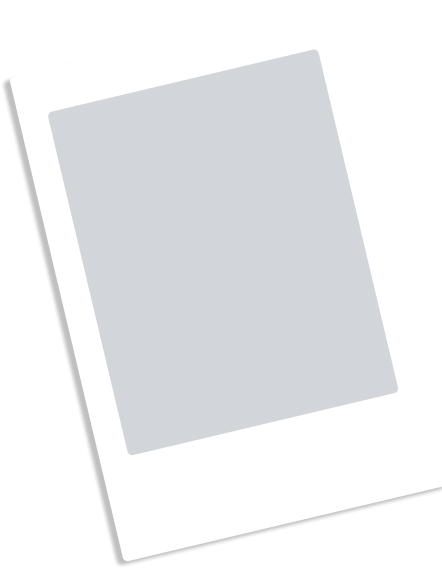
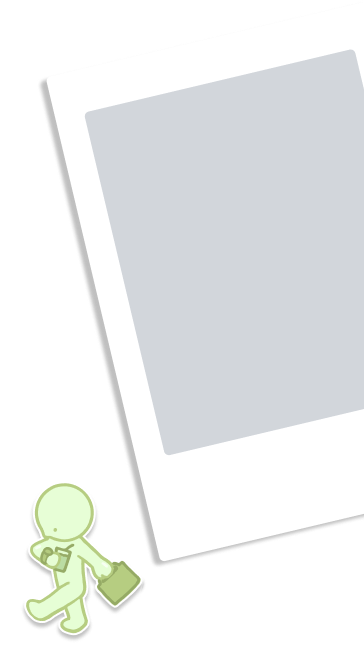
abt page

diff --git a/frontend/style.css b/frontend/style.css
@@ -261,10 +261,7 @@
     position: relative;
     overflow: visible;
     
-    background-image: url("images/about-us-background.png");
-    background-size: cover;
-    background-position: center;
-    background-repeat: no-repeat;
+    background-color: #B19587;
 }
 
 .about-us-text,
@@ -278,19 +275,21 @@
 .about-us-text h2{
     font-family: "gaegu", sans-serif;
     font-size: 64px;
+    color: white;
 }
 
 .about-us-text p{
     text-align: center;
-    padding: 5rem;
-    max-width: 40%;
+    padding: 8rem;
+    width: 70%;
     font-size: 24px;
+    color: #202020;
 
     font-family: "Besley", serif;
-    background-image: url("images/dotted-paper.png");
-    background-size: cover;
+    background-image: url("images/about-us-lined-background.png");
     background-repeat: no-repeat;
-    background-position: center;
+    background-position: top center;
+    background-size: contain;
 }
 
 .about-us-text img{
@@ -311,12 +310,13 @@
 .right-polaroid{
     position: absolute;
     right: 0px;
-    transform: translateY(-30%);
+    transform: translateY() translateX(25%);
 }
 
 /*OUR GOAL SECTION*/
 .our-goal {
     display: flex;
+    flex-direction: column;
     align-items: center;
     position: relative;
     padding: 2rem;
@@ -327,43 +327,33 @@
     background-repeat: no-repeat;
 }
 
-.our-goal-text img{
-    margin: 2rem;
+.our-goal-content {
+    display: flex;
+    align-items: center;
+    gap: 4rem;
+}
+
+.our-goal-text {
+    background-image: url("images/our-goal-lined-background.png");
+    background-size: contain;
+    background-size: 100% 75%;
+    background-position: center;
+    background-repeat: no-repeat;
+    padding: 8rem;
+    flex: 1;
 }
 
 .our-goal-text p{
+    font-size: 24px;
     font-family: "Besley", serif;
-    font-size: 24px;
+    color: #202020;
 }
 
-.our-goal-p{
-    background-image: url("images/brown-paper.png");
-    background-size: cover;
-    background-repeat: no-repeat;
-    background-position: center;
-
-    font-size: 24px;
-    color: #ffffff;
-    padding: 4rem;
-    max-width: 60%;
-}
-
-.left-petals{
-    position: absolute;
-    left: 2rem;
-    transform: translateY(-30%);
-}
-
-.matcha-sticker{
-    position: absolute;
-    right: 1rem;
-    transform: translateY(-70%)
-}
-
-.right-petals{
-    position: absolute;
-    right: 1rem;
-    transform: translateY(100%);
+.our-goal-img-wrapper{
+    flex: 1;
+    display: flex;
+    justify-content: center;
+    align-items: center;
 }
 
 /* SECOND ABOUT US SECTION */

diff --git a/frontend/about.html b/frontend/about.html
@@ -14,7 +14,7 @@
         <div class="merch-nav">
             <a onclick="openShadowBox()">
                 <div class="merch-img">
-                    <img src="images/merch-seal.png"/>
+                    <img src="images/merch-btn-3.png"/>
                     <p>Merch</p>
                 </div>
             </a>
@@ -91,25 +91,21 @@
         <div class="about-us-text">
             <h2>About Us</h2>
             <p>We're recent college graduates who fell in love with matcha long before we fell into adulthood. Between classes, late nights, and caffeine-fueled study sessions, we tried matcha everywhere—cafés, pop-ups, specialty shops, you name it. And somewhere along the way, we started asking the same question over and over: </p>
-            <img src="images/about-us-quote.png" alt="Why are we paying $9 for a cup of matcha that’s barely bigger than our hand?"/>
         </div>
         <div class="right-polaroid">
             <img src="images/right-polaroid-frame.png" alt="polaroid frame"/>
         </div>
     </div>
     <div class="our-goal">
-        <div class="left-petals">
-            <img src="images/petals.png"/>
-        </div>
-        <div class="our-goal-text">
-            <p>The economy is expensive enough. Good matcha shouldn't be.<br>So we decided to do something about it</p>
-            <img src="images/our-goal-img.png"/>
-            <p class="our-goal-p">We don't cut corners. We use the same amount of matcha (if not more), source high-quality powder, and focus on balance, flavor, and care in every cup. No watered-down drinks. No shortcuts. No “premium” upcharges for things that should already be standard.</p>
-        </div>
-        <div>
-            <img class="matcha-sticker" src="images/matcha-latte-sticker.png"/>
-            <img class="right-petals" src="images/petals2.png"/>
-        </div>
+       <img src="images/about-us-quote.png" alt="Why are we paying $9 for a cup of matcha that’s barely bigger than our hand?"/>
+       <div class="our-goal-content">
+            <div class="our-goal-text">
+                <p>The economy is expensive enough. <br> Good matcha shouldn’t be. <br> So we decided to do something about it.</p>
+            </div>
+            <div class="our-goal-img-wrapper">
+                <img src="images/kuma-sticker-big.png" alt="bear-sticker"/>
+            </div>
+       </div>
     </div>
     <div class="about-us-2">
         <div class="hand-whisked-info">

diff --git a/frontend/customize.html b/frontend/customize.html
@@ -15,7 +15,7 @@
         <div class="merch-nav">
             <a onclick="openShadowBox()">
                 <div class="merch-img">
-                    <img src="images/merch-seal.png"/>
+                    <img src="images/merch-btn-3.png"/>
                     <p>Merch</p>
                 </div>
             </a>

diff --git a/frontend/menu.html b/frontend/menu.html
@@ -15,7 +15,7 @@
         <div class="merch-nav">
             <a onclick="openShadowBox()">
                 <div class="merch-img">
-                    <img src="images/merch-seal.png"/>
+                    <img src="images/merch-btn-2.png"/>
                     <p>Merch</p>
                 </div>
             </a>
